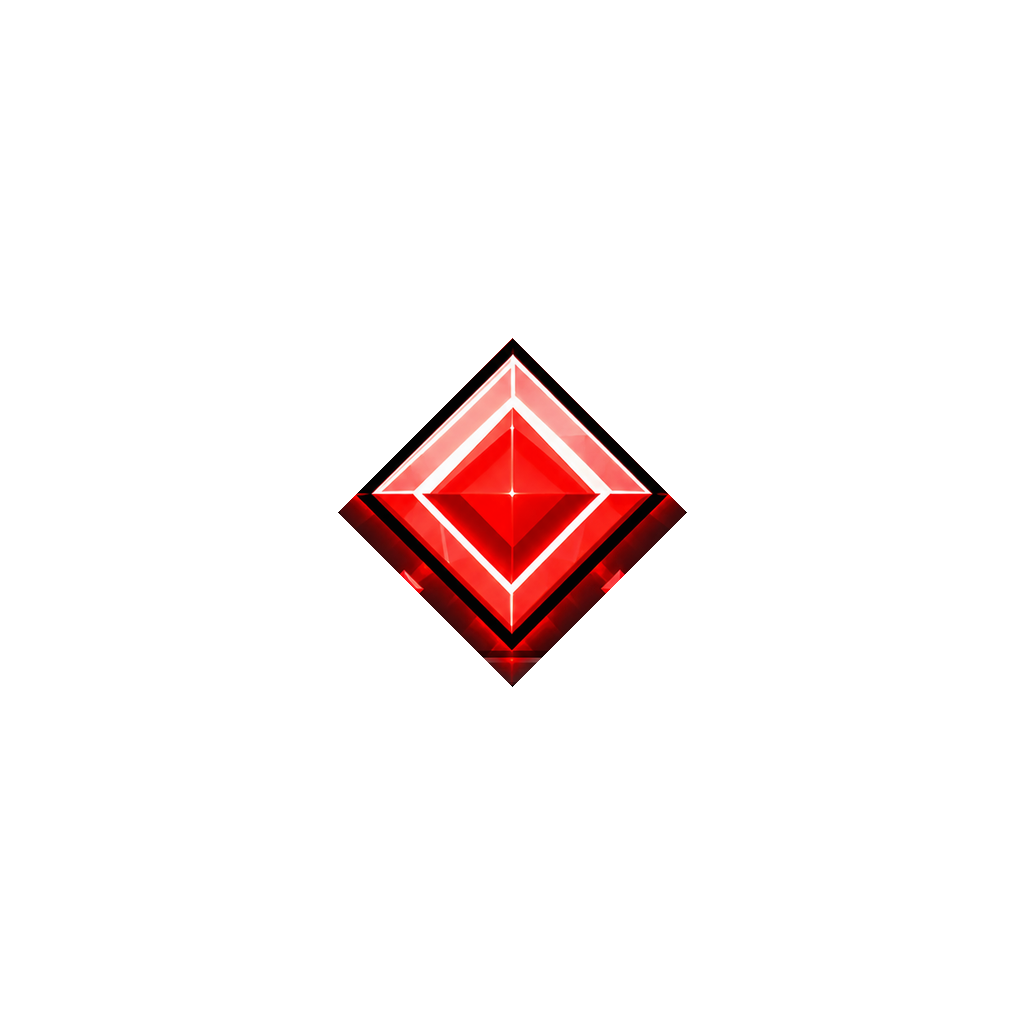
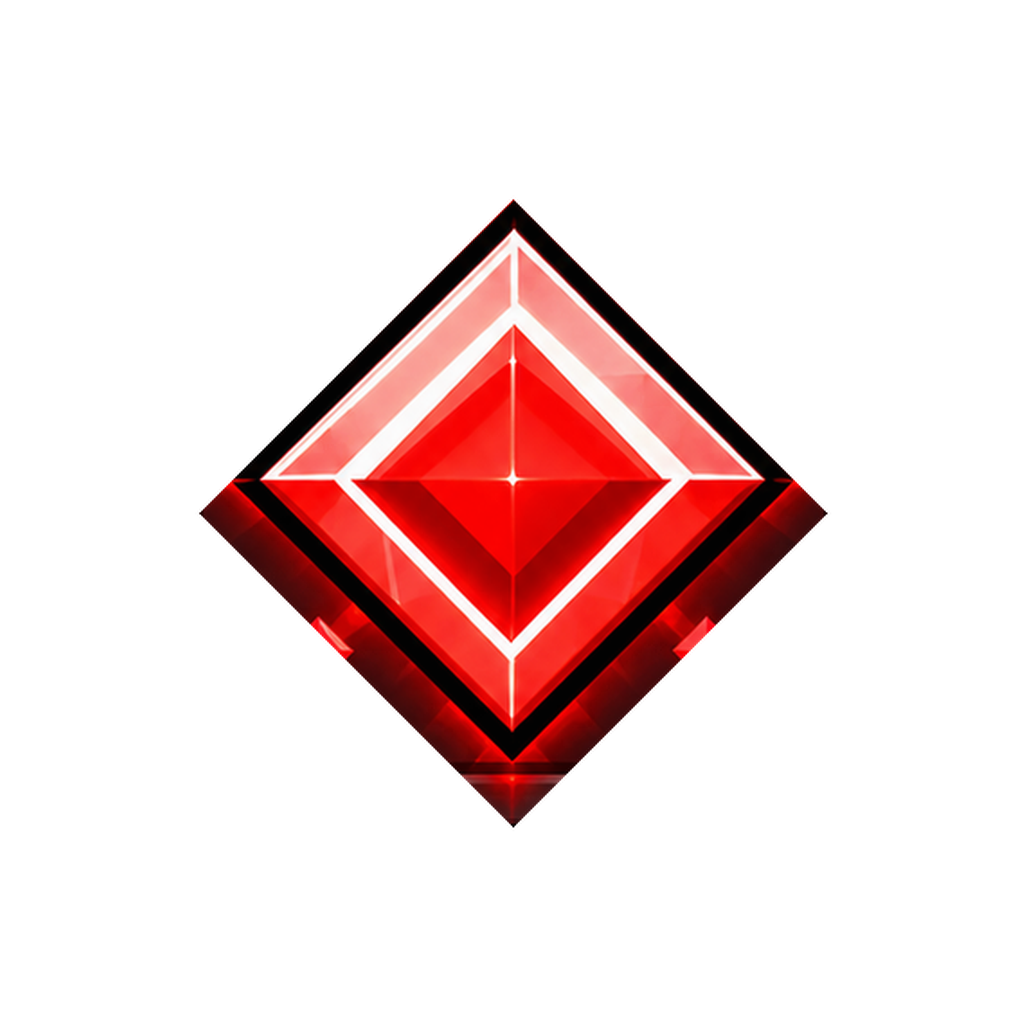
v0.6.0-beta.40: RED gem with its four arrows; lobby footer and titles aligned
- RED badge: the core is drawn 1.8 times larger so the four spike arrows
  sit against it, and only the arrows of the spikes layer remain (the
  scattered pixels and hairlines are cleared). Layer canvases, names and
  roles are unchanged. Image pack tag visuals-v4.
- Lobby footer: SETTINGS uses the same flat face, width and height as
  HISTORY, ACHIEVEMENTS and LEADERBOARD in the row; elsewhere it floats at
  92 points in that same style.
- Mode lobby: SURVIVAL reserves the same two-line title block as SOLO
  RANKED (centred in it), so the 01 / 02 rows and everything below line
  up across both halves.
- Version bumped to v0.6.0-beta.40.

Claude-Session: https://claude.ai/code/session_014RtQRcNCiCBqZ3Rpsz2T1Z

Changed region(s): [[0.1875, 0.1875, 0.8125, 0.8125]]

diff --git a/ranked/apps/server/src/session/client-version.ts b/ranked/apps/server/src/session/client-version.ts
@@ -1,5 +1,5 @@
 export const PREVIOUS_RANKED_CLIENT_VERSION = "v0.5.0-beta.107";
-export const REQUIRED_RANKED_CLIENT_VERSION = "v0.6.0-beta.39";
+export const REQUIRED_RANKED_CLIENT_VERSION = "v0.6.0-beta.40";
 
 export interface RankedClientVersionMod {
   readonly id: string;

diff --git a/corum-ranked-mod/src/RankedPopup.cpp b/corum-ranked-mod/src/RankedPopup.cpp
@@ -708,14 +708,13 @@ class CorumRankedLayer final : public CCLayerColor {
         // Independent of page re-renders: always the same bottom-right entry.
         m_settingsMenu = CCMenu::create(); m_settingsMenu->setPosition(CCPointZero);
         m_settingsMenu->setID("ranked-settings-menu"_spr); addChild(m_settingsMenu, 100);
-        auto* settingsFace = corum::ranked::ui::surface({92, 28}, {}, kSteel, kDeepPanel2, 250, true);
-        m_settingsLabel = corum::ranked::ui::menuLabel(tr("settings", "Settings"), 0.27f, {46, 14},
-            corum::ranked::ui::Text, corum::ranked::ui::FontWeight::ExtraBold);
-        corum::ranked::ui::fitMenuLabelWidth(m_settingsLabel, 78, 0.27f, 0.18f);
-        settingsFace->addChild(m_settingsLabel, 5);
-        settingsFace->setAnchorPoint(CCPointZero); settingsFace->setPosition(CCPointZero);
+        // The same flat face as the lobby footer buttons (HISTORY etc.), so it
+        // lines up with them when the lobby lays it into the footer row.
+        auto* settingsFace = makeFooterFace(tr("settings", "Settings"));
+        m_settingsLabel = typeinfo_cast<CCLabelBMFont*>(settingsFace->getChildByTag(3));
+        layoutFooterFace(settingsFace, kSettingsButtonWidth); settingsFace->setPosition({kSettingsButtonWidth / 2.0f, 13.0f});
         auto* settingsButton = CCMenuItemSpriteExtra::create(settingsFace, this, menu_selector(CorumRankedLayer::onSettings));
-        settingsButton->setContentSize({92,28}); settingsButton->setAnchorPoint({0.5f,0.5f});
+        settingsButton->setContentSize(settingsFace->getContentSize()); settingsButton->setAnchorPoint({0.5f,0.5f});
         settingsButton->setID("ranked-settings-button"_spr);
         settingsButton->setPosition({winSize.width - 70, 30}); m_settingsMenu->addChild(settingsButton);
 
@@ -1438,7 +1437,16 @@ class CorumRankedLayer final : public CCLayerColor {
         }
         if (m_settingsLabel) {
             m_settingsLabel->setString(tr("settings", "Settings").c_str());
-            corum::ranked::ui::fitMenuLabelWidth(m_settingsLabel, 78, 0.27f, 0.18f);
+            // Outside the lobby footer the button floats at its own width.
+            auto* settings = m_settingsMenu ? typeinfo_cast<CCMenuItemSpriteExtra*>(m_settingsMenu->getChildByID("ranked-settings-button"_spr)) : nullptr;
+            auto* face = settings ? settings->getNormalImage() : nullptr;
+            if (face && !m_lobbyToolbar && face->getContentSize().width != kSettingsButtonWidth) {
+                layoutFooterFace(face, kSettingsButtonWidth); face->setPosition({kSettingsButtonWidth / 2.0f, 13.0f});
+                settings->setContentSize(face->getContentSize());
+                settings->setPosition({CCDirector::sharedDirector()->getWinSize().width - 20.0f - kSettingsButtonWidth / 2.0f, 27.0f});
+            }
+            auto const width = face ? face->getContentSize().width : kSettingsButtonWidth;
+            corum::ranked::ui::fitMenuLabelWidth(m_settingsLabel, width - 12.0f, fontScale(16.0f), 0.12f);
         }
         if (m_settingsMenu) {
             auto const& view = RankedRuntime::get().view();
@@ -2432,8 +2440,8 @@ class CorumRankedLayer final : public CCLayerColor {
     // font size of N px is label scale N / 64. Lobby groups sit at the origin
     // at scale 1 and draw in screen points.
     static constexpr float kLobbyHeader = 36.0f, kLobbyFooter = 38.0f;
-    // Floating SETTINGS button outside the page tree: 92 x 28 centred at
-    // (width - inset - 46, 27), so its top edge is at 41.
+    // Floating SETTINGS button outside the page tree: 92 x 26 centred at
+    // (width - inset - 46, 27); 41 keeps a point above its top edge (40).
     static constexpr float kSettingsButtonWidth = 92.0f, kSettingsButtonInset = 20.0f, kSettingsButtonTop = 41.0f;
     static float px(float value) { return value / 2.0f; }
     static float fontScale(float cssPx) { return cssPx / 64.0f; }
@@ -2626,7 +2634,9 @@ class CorumRankedLayer final : public CCLayerColor {
                 corum::ranked::ui::leanLabel(line); corum::ranked::ui::fitMenuLabelWidth(line, x1 - cx - px(104.0f), fontScale(64.0f), 0.4f);
                 m_root->addChild(line, 8);
             };
-            if (survival) { addTitle("SURVIVAL", y + 16.0f); y += 32.0f; }
+            // Both halves reserve the two-line title block, so the 01 / 02 rows
+            // and everything below them line up; SURVIVAL sits in its middle.
+            if (survival) { addTitle("SURVIVAL", y + 29.5f); y += 59.0f; }
             else { addTitle("RANKED", y + 15.0f); addTitle("SOLO", y + 44.0f); y += 59.0f; }
             y += px(10.0f);
             // Number row: 01 / 02 chip and the mode's line.
@@ -3156,7 +3166,10 @@ class CorumRankedLayer final : public CCLayerColor {
                 if(auto* badge=face->getChildByTag(4))badge->setPosition({slot-12.0f,24.0f});}
             item->setPosition({x+slot/2.0f,y});x+=slot+gap;
         }
-        if(settings)settings->setPosition({x+slot/2.0f,y});
+        if(settings){
+            if(auto* face=settings->getNormalImage()){layoutFooterFace(face,slot);settings->setContentSize(face->getContentSize());face->setPosition({slot/2.0f,13.0f});}
+            settings->setPosition({x+slot/2.0f,y});
+        }
         m_statusTextWidth=std::max(80.0f,size.width-120.0f);
         if(m_mainStatusLabel) corum::ranked::ui::fitMenuLabelWidth(m_mainStatusLabel,m_statusTextWidth,fontScale(13.0f),.12f);
     }

diff --git a/corum-ranked-mod/tools/cut-rank-badges.py b/corum-ranked-mod/tools/cut-rank-badges.py
@@ -2,7 +2,8 @@
 """Cut the lower-tier rank badges and rebuild their finished trophies.
 
 UNRANKED keeps only its core, drawn twice as large so it still reads at
-list size. RED keeps only its spikes and core (its body layer is cleared).
+list size. RED keeps only its four spike arrows and its core, enlarged 1.8
+times so the arrows sit against it (its body layer is cleared).
 AQUA and BRONZE lose the middle of each
 side of their body layer (a horizontal and a vertical band through the
 centre); the narrower the band, the higher the tier. Ornament layers and the
@@ -35,9 +36,10 @@ LAYERS = {
 BODY_CUT = {'bronze': 45, 'aqua': 80}
 # Tiers whose body layer is cleared entirely.
 BODY_CLEARED = ('red',)
-# The UNRANKED core is enlarged around the canvas centre while it is still
-# at its original size (idempotent: an enlarged core is left alone).
-CORE_SCALE, CORE_ORIGINAL_MAX = 2.0, 300
+# Cores enlarged around the canvas centre while they are still at their
+# original size (idempotent: an enlarged core is left alone):
+# tier -> (scale, original maximum width in canvas pixels).
+CORE_ENLARGE = {'unranked': (2.0, 300), 'red': (1.8, 400)}
 
 
 def layer_path(tier, role):
@@ -61,20 +63,35 @@ def middle_bands(half_width):
     return (np.abs(xx - centre) < half_width) | (np.abs(yy - centre) < half_width)
 
 
-def enlarge_unranked_core():
-    path = layer_path('unranked', 'core')
+def enlarge_core(tier, scale, original_max):
+    path = layer_path(tier, 'core')
     pixels = load(path)
     ys, xs = np.nonzero(pixels[..., 3] > 16)
-    if xs.max() - xs.min() > CORE_ORIGINAL_MAX:
+    if xs.max() - xs.min() > original_max:
         return
-    size = round(CANVAS * CORE_SCALE)
+    size = round(CANVAS * scale)
     offset = (size - CANVAS) // 2
     big = Image.fromarray(pixels, 'RGBA').resize((size, size), Image.LANCZOS)
     save(path, np.asarray(big.crop((offset, offset, offset + CANVAS, offset + CANVAS))).copy())
 
 
+def keep_red_arrows():
+    # The four spike arrows only: the scattered pixels and hairlines of the
+    # spikes layer would float around the enlarged core.
+    path = layer_path('red', 'spikes')
+    pixels = load(path)
+    yy, xx = np.mgrid[0:CANVAS, 0:CANVAS]
+    centre = (CANVAS - 1) / 2.0
+    vertical = (np.abs(xx - centre) < 90) & ((yy < 200) | (yy > 820))
+    horizontal = (np.abs(yy - centre) < 120) & ((xx < 200) | (xx > 820))
+    pixels[~(vertical | horizontal)] = 0
+    save(path, pixels)
+
+
 def cut():
-    enlarge_unranked_core()
+    for tier, (scale, original_max) in CORE_ENLARGE.items():
+        enlarge_core(tier, scale, original_max)
+    keep_red_arrows()
     for role in LAYERS['unranked']:
         if role == 'core':
             continue
